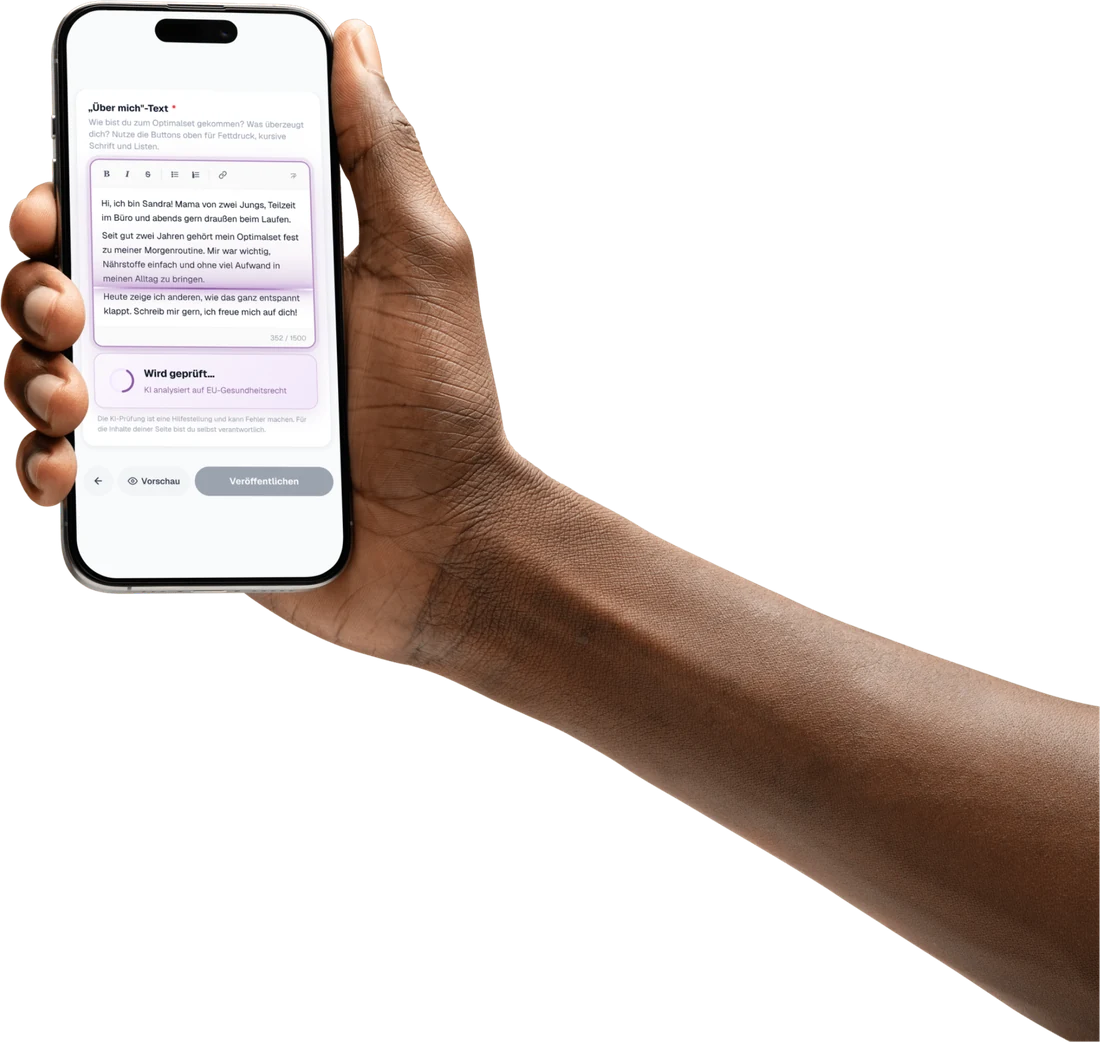
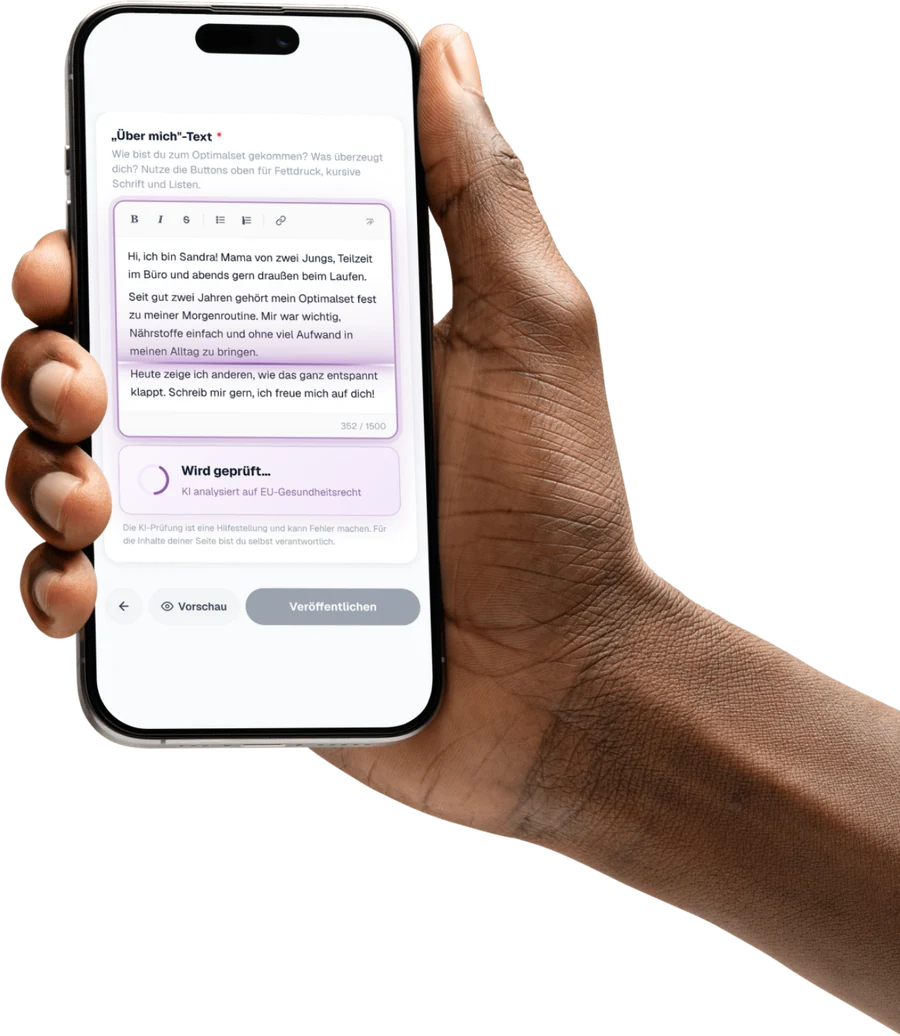
feat(startseite): ClaimGuard mit Hochformat-Mockup, kurzer Kernsatz und zweitem Leseweg (fette Kernaussagen)

diff --git a/src/app/_components/ClaimGuardSection.tsx b/src/app/_components/ClaimGuardSection.tsx
@@ -5,9 +5,9 @@
 const APP_URL = process.env.NEXT_PUBLIC_APP_URL ?? 'https://app.finestsites.io'
 
 const POINTS = [
-  { k: 'Prüft deinen Text:', v: 'Jeder Satz wird auf Heil- und Wirkaussagen geprüft, etwa „hilft gegen“ oder „heilt“.' },
-  { k: 'Schreibt ihn um:', v: 'Problemstellen werden markiert und erlaubt formuliert. Ein Klick, übernommen.' },
-  { k: 'Erst dann online:', v: 'Veröffentlicht wird erst, wenn der Text sauber ist. So bleibst du auf der sicheren Seite.' },
+  { k: 'Prüft jeden Satz', v: 'auf Heil- und Wirkaussagen, etwa „hilft gegen“ oder „heilt“.' },
+  { k: 'Schreibt heikle Stellen um,', v: 'so dass sie erlaubt sind. Ein Klick, übernommen.' },
+  { k: 'Gibt erst frei, wenn alles sauber ist.', v: 'So bleibst du auf der sicheren Seite.' },
 ]
 
 /* feines Korn für den Hintergrund (SVG-Rauschen, sehr schwach) */
@@ -18,9 +18,9 @@ export default function ClaimGuardSection() {
     <section id="claimguard" style={{ position: 'relative', overflow: 'hidden', color: '#fff', background: 'linear-gradient(180deg, #06061A 0%, #0B0A2A 55%, #150E3C 100%)' }}>
       <style>{`
         .cg-inner { position: relative; z-index: 2; max-width: 1120px; margin: 0 auto; padding: 100px 7vw; min-height: 740px; display: flex; align-items: center; }
-        .cg-text { max-width: 540px; width: 52%; }
+        .cg-text { max-width: 560px; width: 56%; }
         /* Handy hängt unten rechts am Rand der Sektion, der Arm läuft aus dem Bild */
-        .cg-phone { position: absolute; right: 0; bottom: 0; width: clamp(440px, 46vw, 660px); z-index: 2; pointer-events: none; }
+        .cg-phone { position: absolute; right: 0; bottom: 0; width: clamp(400px, 40vw, 580px); z-index: 2; pointer-events: none; }
         .cg-phone img { width: 100%; height: auto; display: block; filter: drop-shadow(0 30px 60px rgba(0,0,0,0.6)); }
         .cg-word {
           font-family: "Plus Jakarta Sans", sans-serif; font-weight: 700; letter-spacing: -0.035em; line-height: 1;
@@ -63,7 +63,7 @@ export default function ClaimGuardSection() {
           .cg-inner { padding: 72px 5vw 0; min-height: 0; display: block; }
           .cg-text { max-width: 640px; width: auto; }
           .cg-phone { position: relative; width: auto; margin: 28px -5vw 0 0; display: flex; justify-content: flex-end; }
-          .cg-phone img { width: min(100%, 520px); }
+          .cg-phone img { width: min(100%, 460px); }
         }
         @media (max-width: 767px) {
           .cg-inner { padding: 56px 22px 0; }
@@ -103,8 +103,8 @@ export default function ClaimGuardSection() {
               </svg>
             </span>
           </h2>
-          <p style={{ fontSize: 'clamp(18px, 2vw, 22px)', color: 'rgba(255,255,255,0.9)', lineHeight: 1.5, maxWidth: 560, marginBottom: 28, fontWeight: 500 }}>
-            Über Gesundheit und Wirkung darf man auf Webseiten nur wenig sagen. ClaimGuard prüft deine Texte auf Heil- und Wirkaussagen, bevor sie online gehen.
+          <p style={{ fontSize: 'clamp(20px, 2.2vw, 26px)', color: '#fff', lineHeight: 1.35, maxWidth: 520, marginBottom: 30, fontWeight: 600, letterSpacing: '-0.01em' }}>
+            Deine Texte, automatisch geprüft auf Heil- und Wirkaussagen.
           </p>
 
           <ul style={{ listStyle: 'none', display: 'flex', flexDirection: 'column', gap: 14, marginBottom: 36 }}>
@@ -135,7 +135,7 @@ export default function ClaimGuardSection() {
 
       <div className="cg-phone">
         {/* eslint-disable-next-line @next/next/no-img-element */}
-        <img src="/claimguard-phone.webp" alt="ClaimGuard prüft einen Text im Editor auf dem Smartphone" loading="lazy" width={1100} height={1042} />
+        <img src="/claimguard-phone.webp" alt="ClaimGuard prüft einen Text im Editor auf dem Smartphone" loading="lazy" width={900} height={1036} />
       </div>
     </section>
   )
